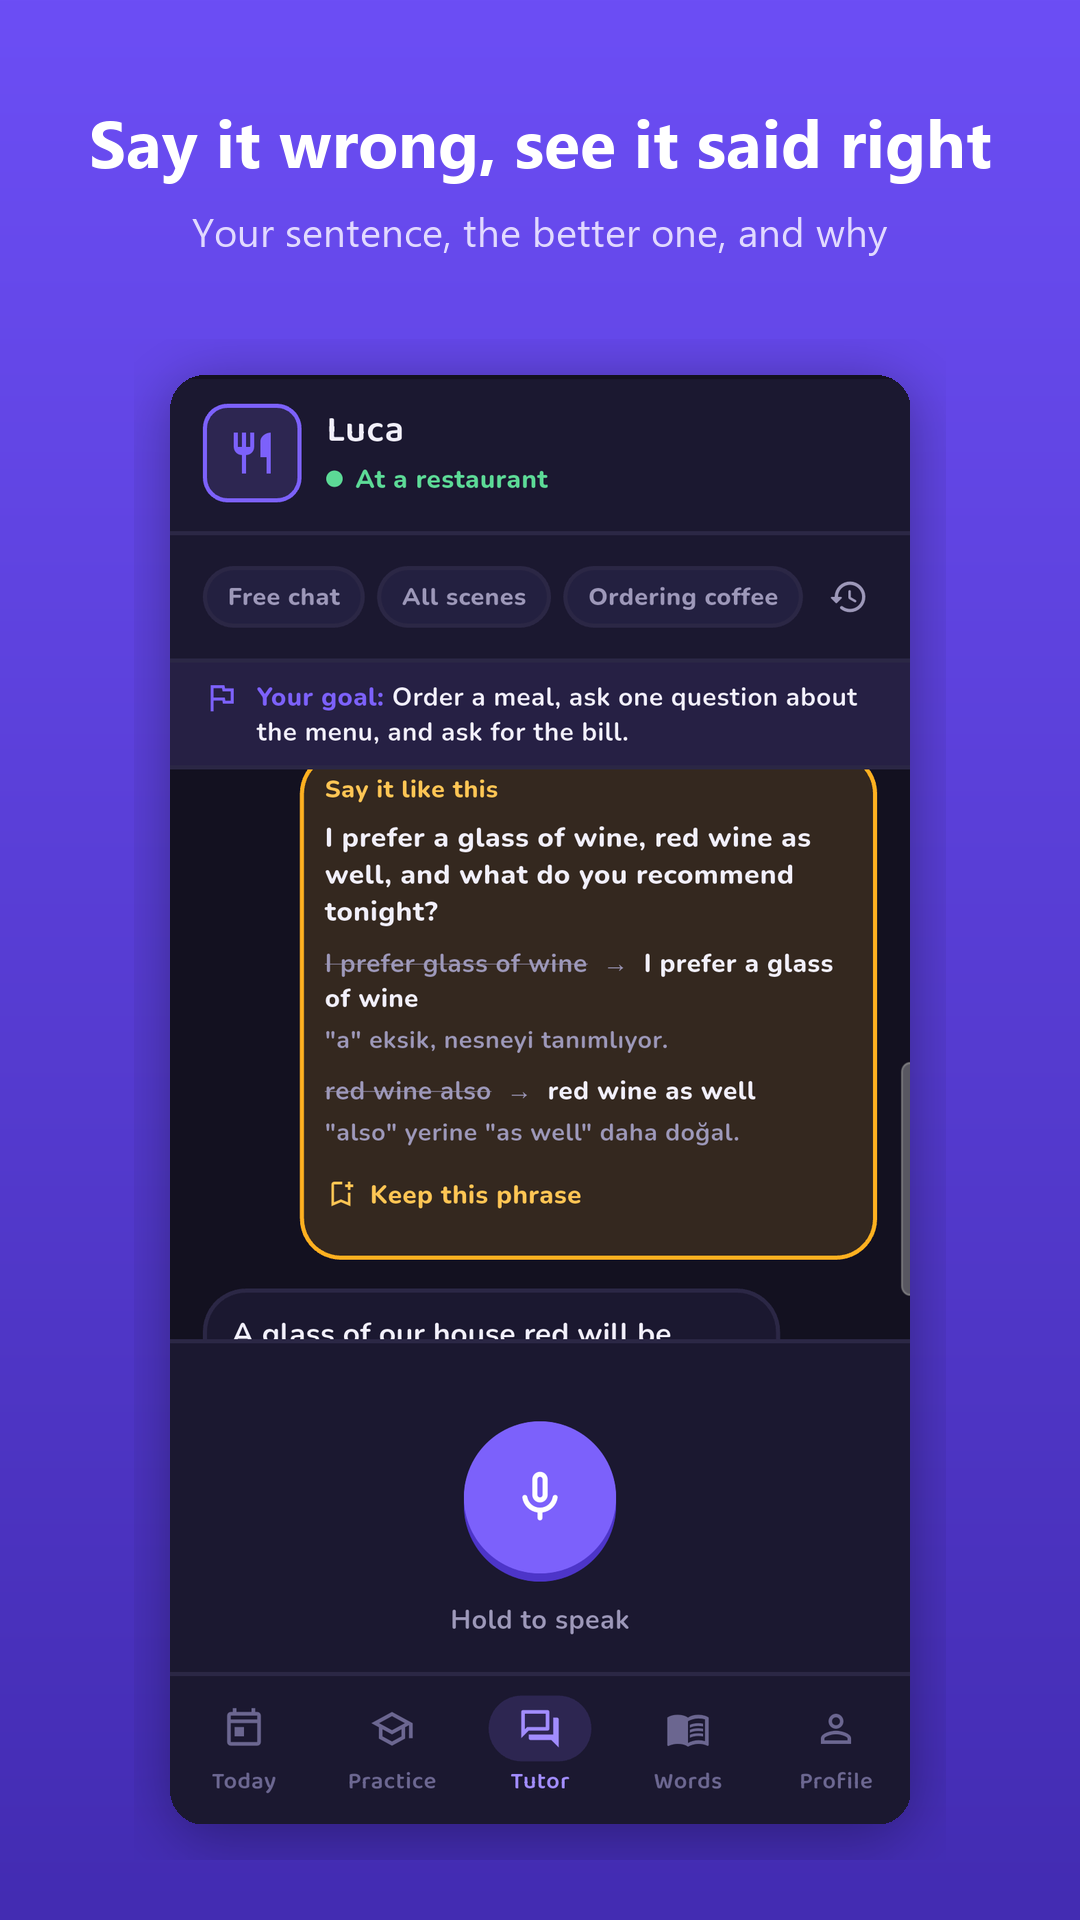
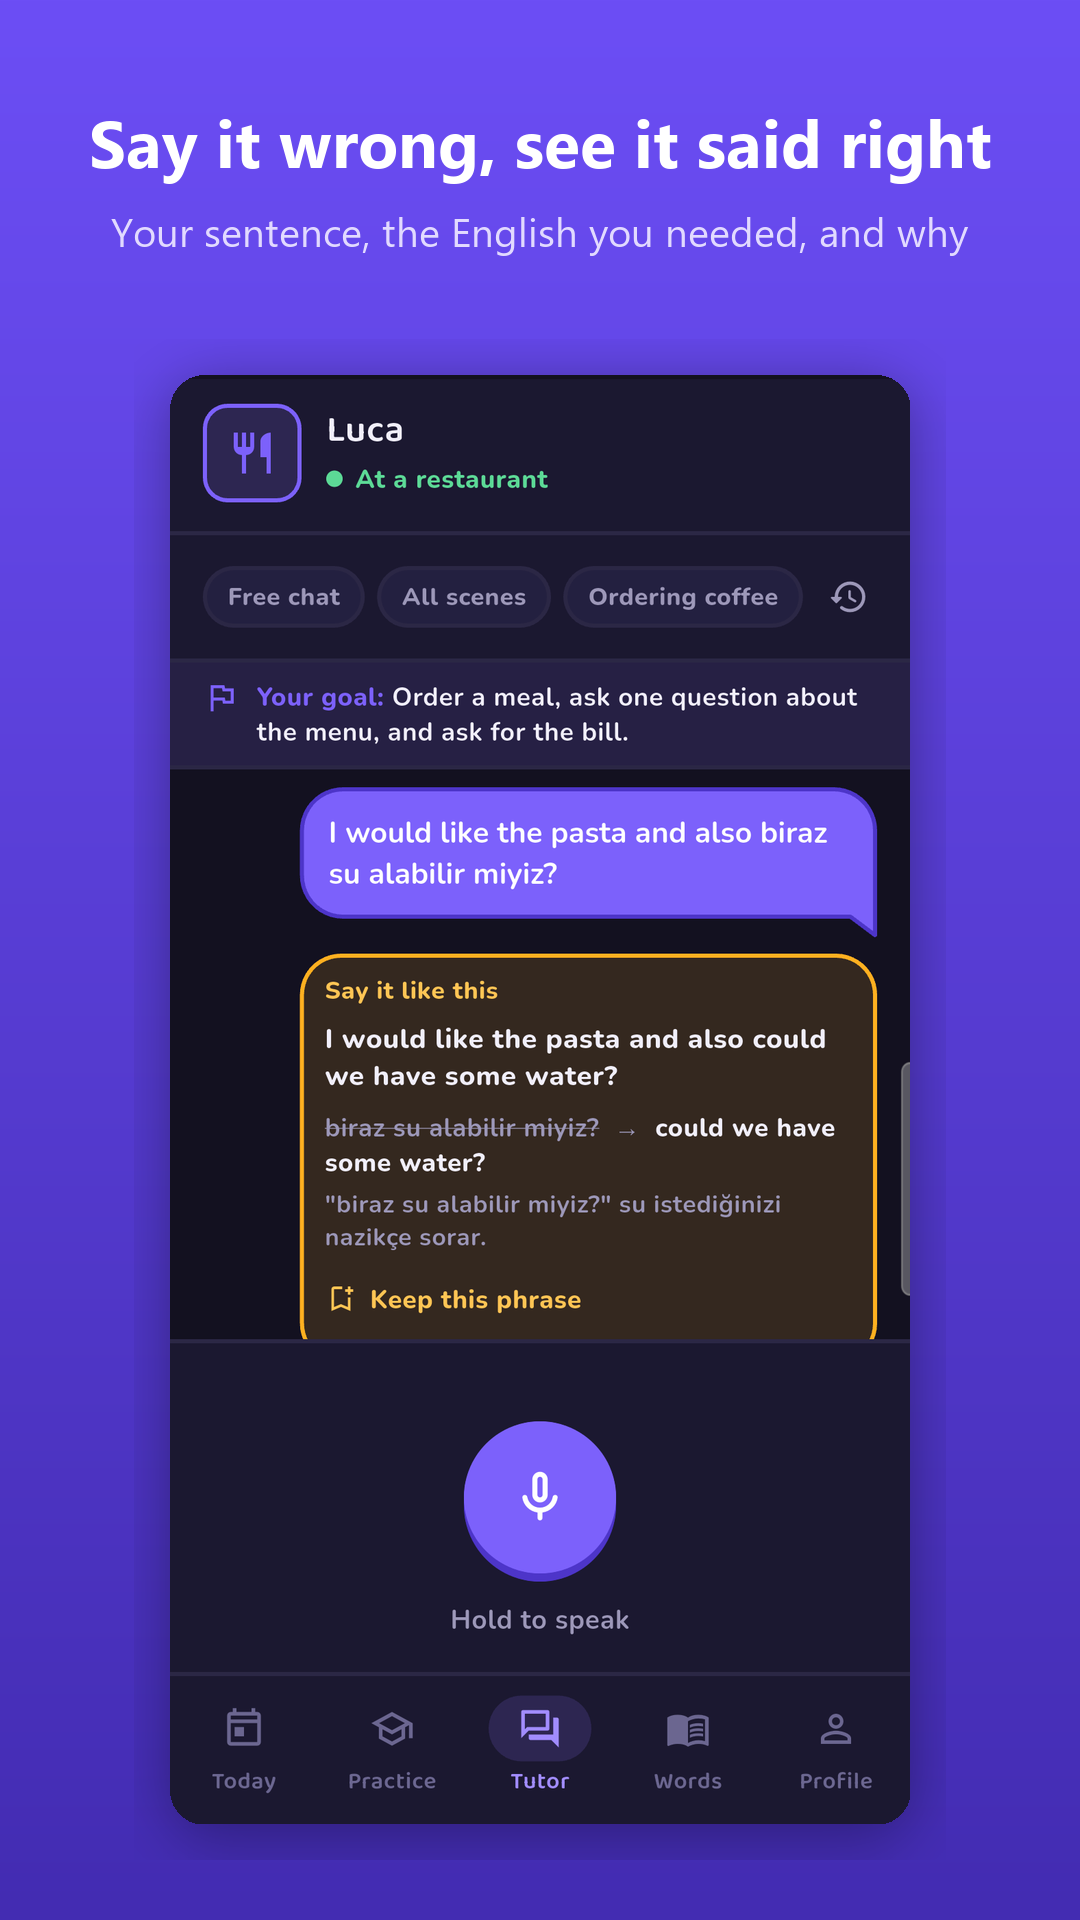
docs(store): the English set's first frame is in English now
It was the 14 September capture, chosen because the newer one had a Turkish
interface in it, and every label a stranger met -- the card's heading, its save
button, the tab bar -- was in a language they do not read.

Retaken tonight with the app switched to English and the learner's own language
left as Turkish, which is the only way to photograph the thing being sold: you
cannot show somebody falling back on their own language if their own language is
the one they are practising. So the frame reads Say it like this, Keep this
phrase, Hold to speak, and the two Turkish lines left in it are the half-sentence
the learner actually said and the reason line, which is written in their language
on purpose.

Nothing in the frame was retouched; the app was changed, not the picture.

diff --git a/store/make_store.py b/store/make_store.py
@@ -56,15 +56,14 @@ NAV_BAR = 132
 # roleplay and the book reader, not the daily plan.
 SHOTS_EN = [
     # The same reasoning as the first Turkish frame: the correction is the thing
-    # nothing else in the store does, so it goes first. This capture is older (14 Sep,
-    # store/promo/src/tutor_card.png) because the 20 Sep one was taken with the
-    # interface in Turkish. Its two 'why' lines are Turkish -- that account's native
-    # language -- which is exactly what the listing promises ('the line that explains
-    # why arrives in yours') and still the weakest part of the English set: a reader
-    # in Jakarta sees Turkish. Worth retaking on an account whose own language is
-    # English, where the same card explains itself in English.
+    # nothing else in the store does, so it goes first. Retaken on 20 Sep with the
+    # interface switched to English, so every label a reader in Jakarta meets is in
+    # theirs: Say it like this, Keep this phrase, Hold to speak. The two lines left in
+    # Turkish are the learner's own half-sentence, which is the mechanism being shown,
+    # and the reason line, which is written in the learner's language on purpose --
+    # what the description promises one paragraph further down.
     ('09_correction.png', 'Say it wrong, see it said right',
-     'Your sentence, the better one, and why'),
+     'Your sentence, the English you needed, and why'),
     ('02_tutor.png', 'Order a coffee, out loud',
      'Spoken roleplay with an AI tutor'),
     ('06_reader_word.png', 'Tap a word you don’t know',

diff --git a/store/README.md b/store/README.md
@@ -71,12 +71,11 @@ Sıra da farklı. Play arama sonuçlarında ilk iki-üç kareyi gösteriyor ve b
 yabancıya bu uygulamayı ikinci kez baktıracak şey konuşma sahneleri ile kitap
 okuyucusu, günlük plan değil.
 
-İlk kare Türkçe settekiyle aynı gerekçeyle düzeltme kartı, ama daha eski bir
-çekim (`promo/src/tutor_card.png`, 14 Eylül): 20 Eylül'deki çekim Türkçe
-arayüzde alındı, İngilizce sete konamaz. Bu karenin iki "neden" satırı Türkçe —
-o hesabın ana dili Türkçe olduğu için, yani metnin söz verdiği şey — ama
-Jakarta'daki bir okuyucu Türkçe görüyor. Ana dili İngilizce olan bir hesapta
-aynı kart kendini İngilizce açıklıyor; kare orada yeniden çekilmeli.
+İlk kare Türkçe settekiyle aynı gerekçeyle düzeltme kartı, ama arayüzü İngilizceye
+alınmış telefonda çekildi (20 Eylül akşamı): *Say it like this*, *Keep this phrase*,
+*Hold to speak*. Karede Türkçe kalan iki şey var ve ikisi de kasıtlı — öğrencinin
+kendi yarım cümlesi (gösterilen mekanizma bu) ve "neden" satırı, çünkü o satır
+öğrencinin diline göre yazılıyor ve tam açıklama bunu bir paragraf aşağıda söylüyor.
 
 ## Diğer diller
 
